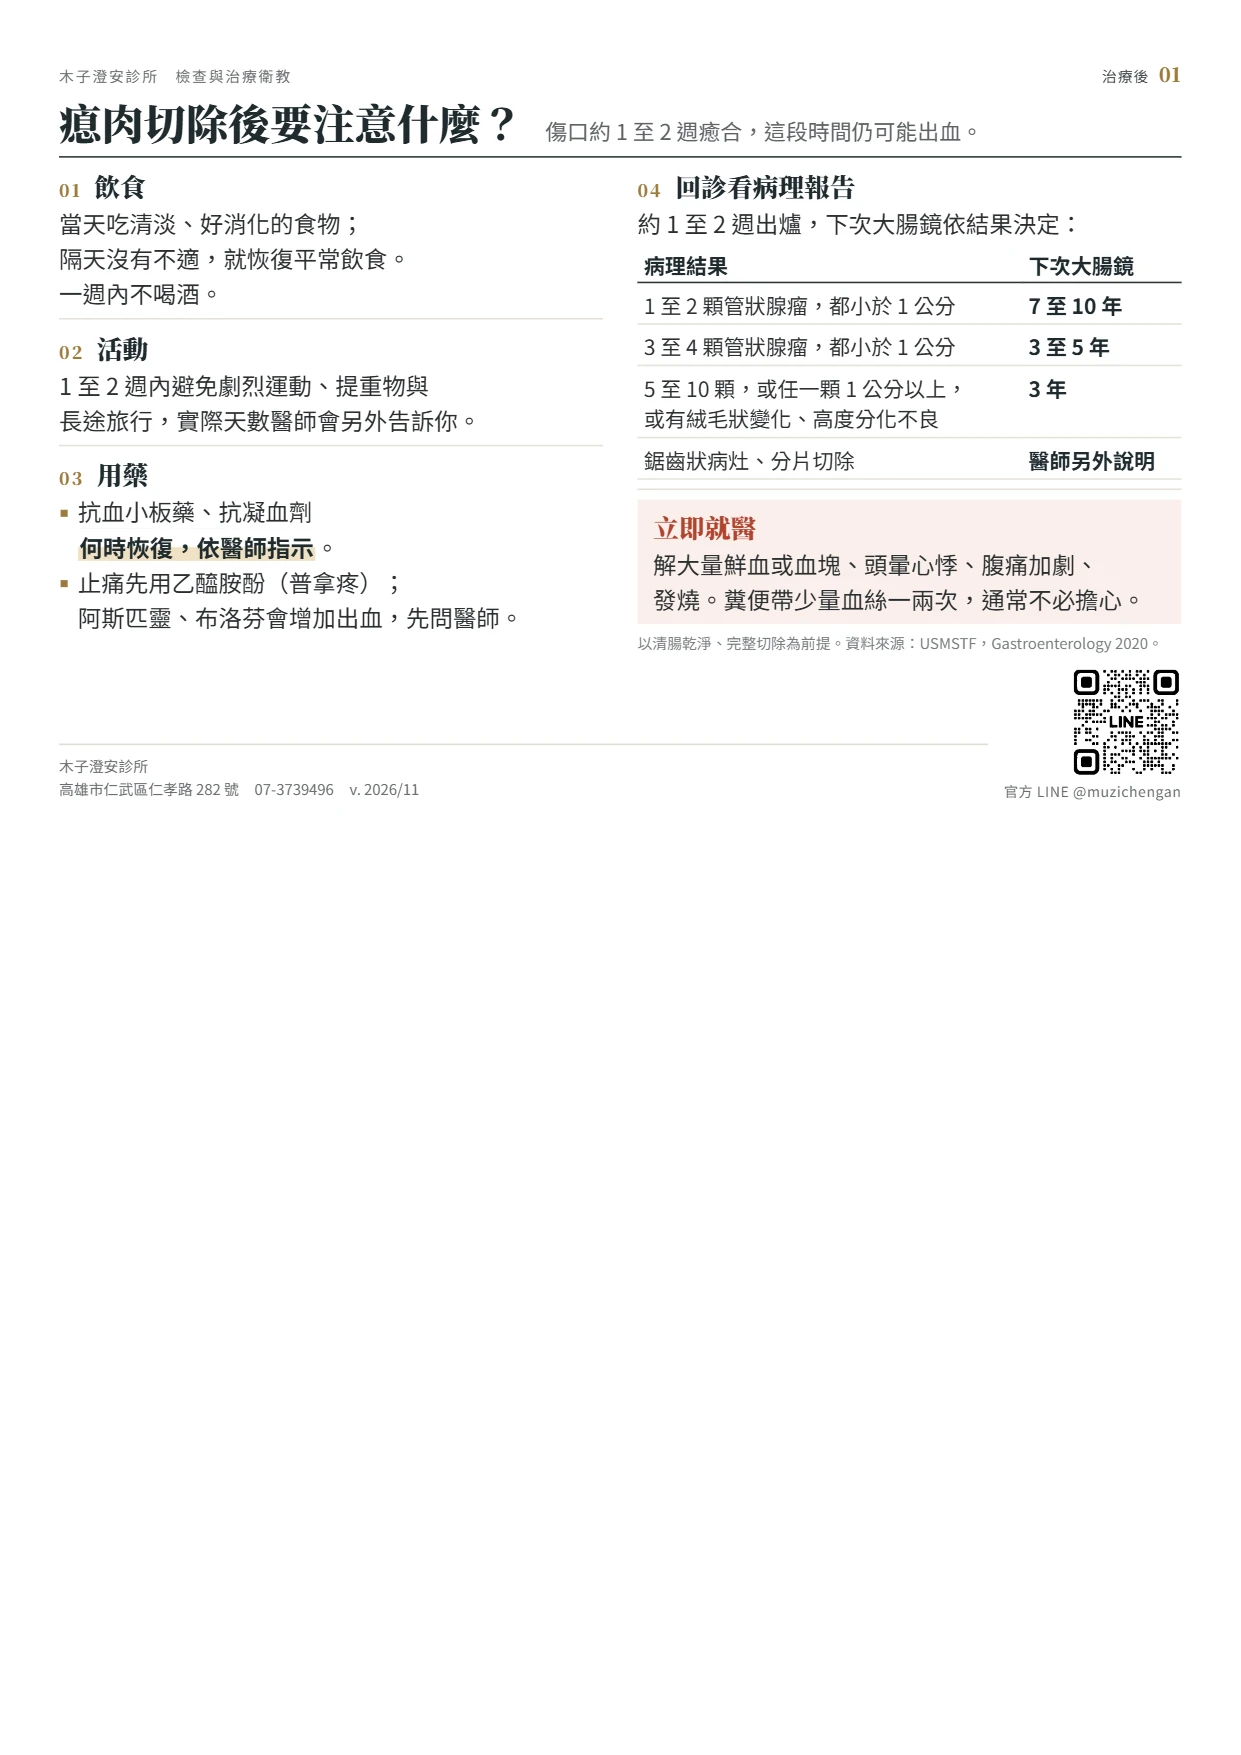
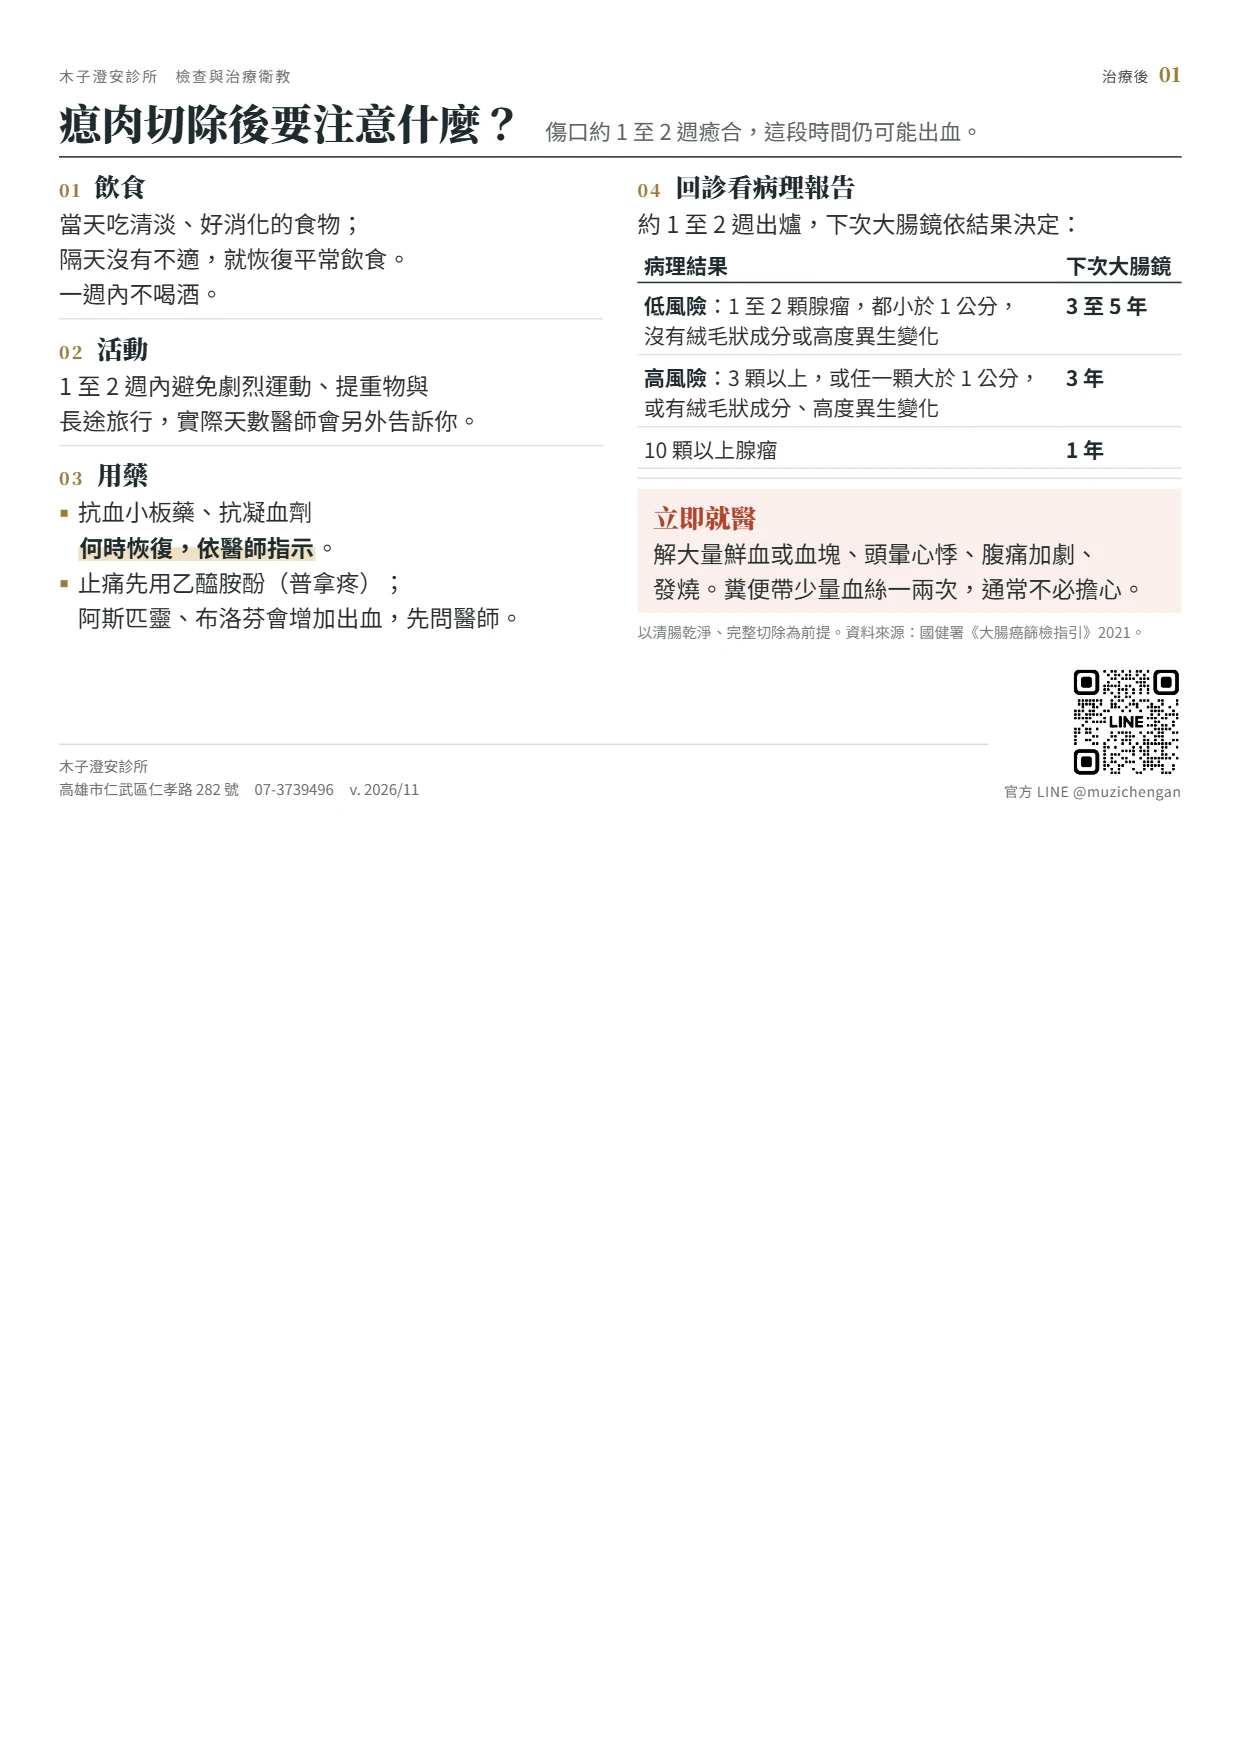
瘜肉切除術後追蹤表改依國健署《大腸癌篩檢指引》
- 依國民健康署委託台灣消化系醫學會撰寫的《大腸癌篩檢指引》（2021）第柒章：
  低風險 3 至 5 年、高風險 3 年、10 顆以上腺瘤 1 年
- 病理用語比照指引寫「高度異生變化」「絨毛狀成分」「大於 1 公分」
- 刪除指引未涵蓋的鋸齒狀病灶列，出處改為國健署《大腸癌篩檢指引》2021
- sw.js 快取 v72

Changed region(s): [[0.5205, 0.1231, 0.9492, 0.3692]]

diff --git a/edu-src/a5.html b/edu-src/a5.html
@@ -226,13 +226,12 @@ table.tb td:last-child{font-weight:700; color:var(--ink);}
         <div class="v"><p>約 1 至 2 週出爐，下次大腸鏡依結果決定：</p>
           <table class="tb">
             <tr><th>病理結果</th><th>下次大腸鏡</th></tr>
-            <tr><td>1 至 2 顆管狀腺瘤，都小於 1 公分</td><td>7 至 10 年</td></tr>
-            <tr><td>3 至 4 顆管狀腺瘤，都小於 1 公分</td><td>3 至 5 年</td></tr>
-            <tr><td>5 至 10 顆，或任一顆 1 公分以上，<br>或有絨毛狀變化、高度分化不良</td><td>3 年</td></tr>
-            <tr><td>鋸齒狀病灶、分片切除</td><td>醫師另外說明</td></tr>
+            <tr><td><b class="s">低風險</b>：1 至 2 顆腺瘤，都小於 1 公分，<br>沒有絨毛狀成分或高度異生變化</td><td>3 至 5 年</td></tr>
+            <tr><td><b class="s">高風險</b>：3 顆以上，或任一顆大於 1 公分，<br>或有絨毛狀成分、高度異生變化</td><td>3 年</td></tr>
+            <tr><td>10 顆以上腺瘤</td><td>1 年</td></tr>
           </table></div></div>
       <div class="box alert"><div class="t">立即就醫</div><div class="c">解大量鮮血或血塊、頭暈心悸、腹痛加劇、<br><span class="nw">發燒</span>。糞便帶少量血絲一兩次，通常不必擔心。</div></div>
-      <p class="src">以清腸乾淨、完整切除為前提。資料來源：USMSTF，Gastroenterology 2020。</p>
+      <p class="src">以清腸乾淨、完整切除為前提。資料來源：國健署《大腸癌篩檢指引》2021。</p>
     </div>
   </div>
   <div class="foot"><div class="addr">木子澄安診所<br>高雄市仁武區仁孝路 282 號<span>07-3739496</span><span>v. 2026/11</span></div><div class="qr"><img src="../calc/qr.png" alt=""><span>官方 LINE @muzichengan</span></div></div>

diff --git a/revision.js b/revision.js
@@ -12,7 +12,7 @@ const REVISION = {
 /* 工作台左下角只顯示最新的一個日期（上面五個取最晚的），點一下會跳出這次改了什麼。
    每次改版就把這裡整份換成「當次」的簡短說明，一行一件事；不要把前幾次的說明留著累加。 */
 const REVISION_NOTE = [
-  "衛教：瘜肉切除後追蹤年數依 USMSTF 2020 更新，並標出處",
+  "衛教：瘜肉切除後追蹤表依國健署《大腸癌篩檢指引》2021，補 10 顆以上 1 年並標出處",
   "衛教：「用藥注意事項」與「針劑注射與保存」合併為「腸泌素針劑怎麼打」2 頁",
   "衛教：胃鏡、大腸鏡加 SGLT2 抑制劑提醒；腹部超音波可喝少量白開水",
   "衛教：抗逆流結紮癒合時間、幽門桿菌測試前停 PPI、代謝症候群 HDL 判定等文字修正"

diff --git a/sw.js b/sw.js
@@ -9,7 +9,7 @@
    工作台開啟後會把所有衛教與表單圖片預先存下，斷網時也能顯示與列印。
    網路很慢（伺服器 3 秒內沒回應，圖片 6 秒）時先用快取開啟，背景照樣把新版存下，下次開啟就是新版；
    以前會一直等到連線逾時，網路卡住時整個工作台白畫面。 */
-const CACHE = 'tools-v71';
+const CACHE = 'tools-v72';
 const CORE = [
   './', 'index.html',
   'mount.js', 'revision.js',
